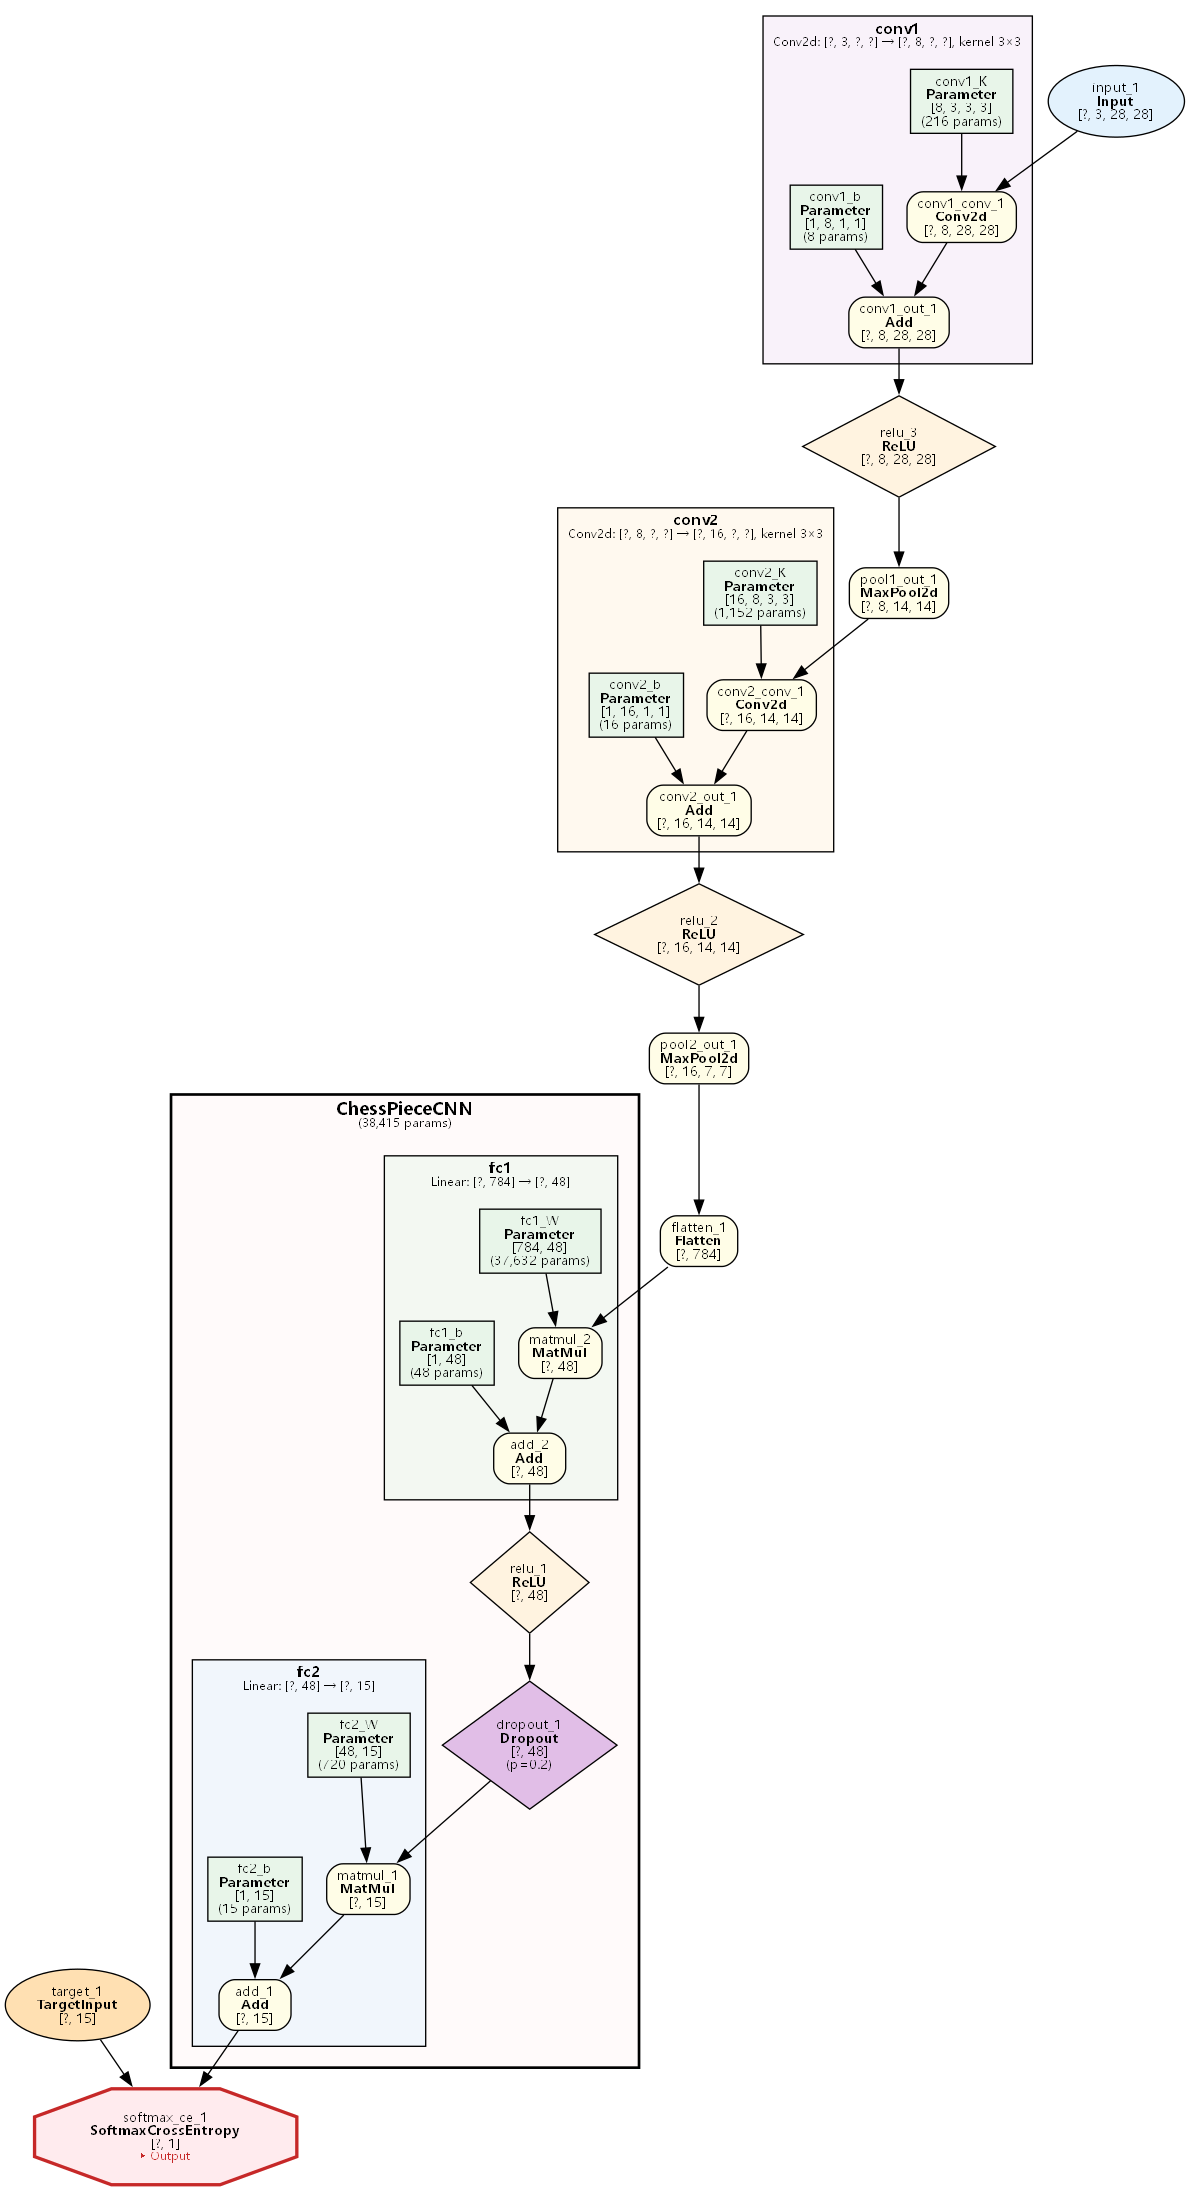
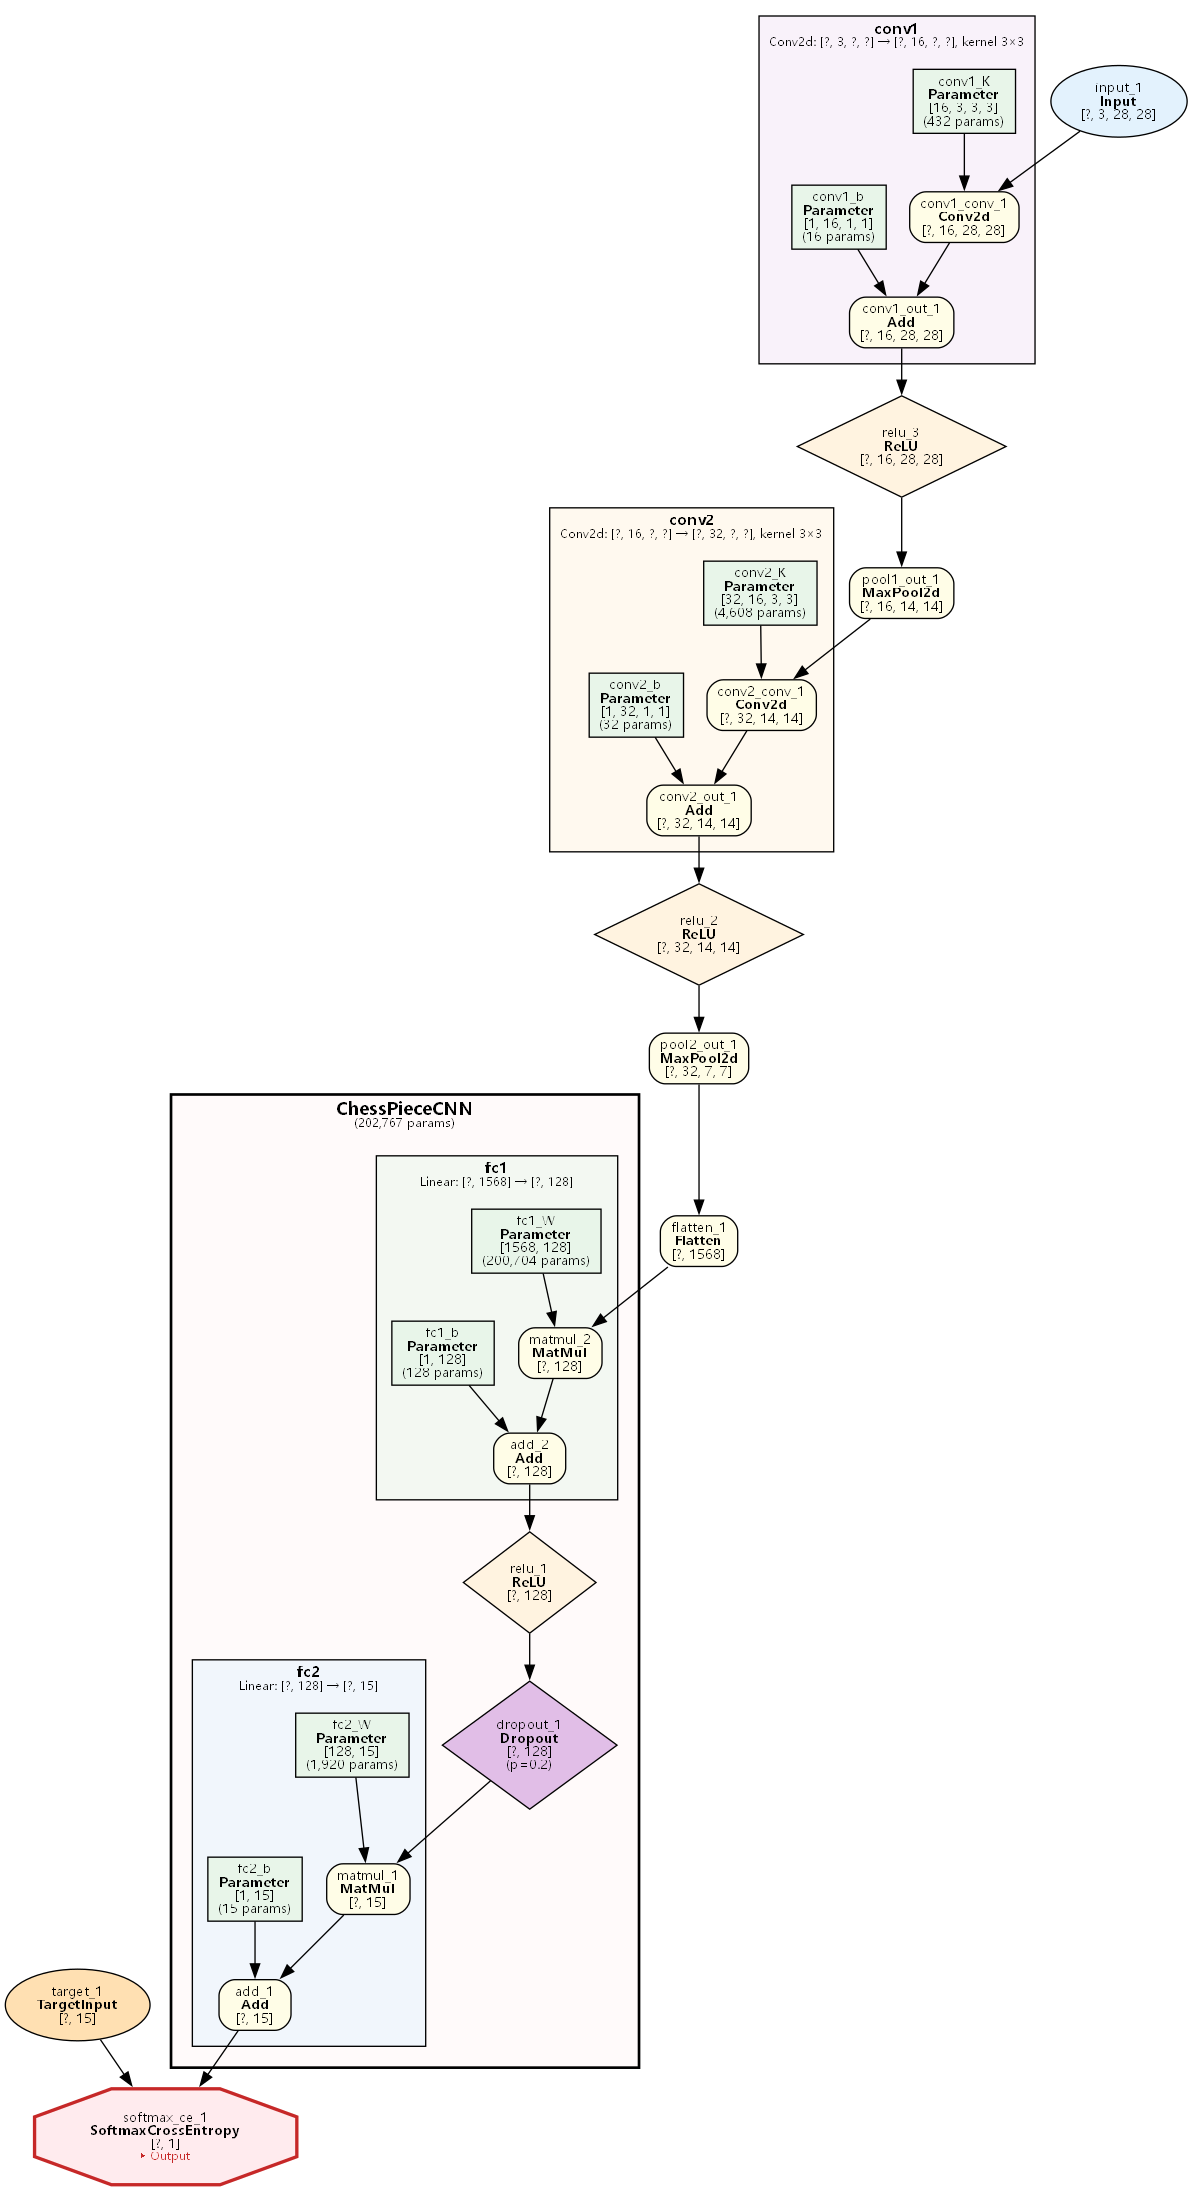
feat: update Chinese Chess model architecture and data augmentation
- Adjusted parameters in the ChessPieceCNN architecture, increasing the number of parameters in fully connected layers and convolutional layers.
- Simplified data augmentation in main.rs by removing aggressive transformations, retaining only ColorJitter for training.
- Enhanced the generate_chess_data.py script to include additional font styles for improved data generation.

diff --git a/examples/chinese_chess/main.rs b/examples/chinese_chess/main.rs
@@ -38,10 +38,7 @@ mod model;
 
 use data::{load_chess_data, CLASS_NAMES};
 use model::ChessPieceCNN;
-use only_torch::data::{
-    ColorJitter, Compose, DataLoader, RandomCrop, RandomErasing, RandomRotation, TensorDataset,
-    Transform,
-};
+use only_torch::data::{ColorJitter, DataLoader, TensorDataset, Transform};
 use only_torch::metrics::accuracy;
 use only_torch::nn::{Adam, Graph, GraphError, Module, Optimizer, VarLossOps};
 use only_torch::tensor::Tensor;
@@ -69,9 +66,9 @@ fn main() -> Result<(), GraphError> {
     // 2. 配置
     let batch_size = 256;
     let max_epochs = 100;
-    let learning_rate = 0.01;
+    let learning_rate = 0.001;
     let target_accuracy = 95.0;
-    let early_stop_patience = 5;
+    let early_stop_patience = 10;
 
     println!("\n[2/4] 配置：");
     println!("  - Batch: {batch_size}");
@@ -82,12 +79,8 @@ fn main() -> Result<(), GraphError> {
     println!("  - 目标准确率: {target_accuracy}%");
 
     // 3. 运行时数据增强（仅训练集）
-    let train_transform = Compose::new(vec![
-        Box::new(RandomCrop::new(28, 28).padding(3)),    // ±3px 裁切偏移
-        Box::new(RandomRotation::new(5.0)),              // ±5° 旋转
-        Box::new(ColorJitter::new(0.15, 0.15, 0.1)),    // 亮度/对比度/饱和度扰动
-        Box::new(RandomErasing::new(0.3)),               // 30% 概率随机遮挡
-    ]);
+    // 仅用温和的色彩扰动 — 28x28 小图上叠加裁切/旋转/遮挡太激进会阻碍学习
+    let train_transform = ColorJitter::new(0.15, 0.15, 0.1);
 
     // 为推理基准测试和每类准确率保留副本
     let test_x_for_eval = test_x.clone();
@@ -117,7 +110,7 @@ fn main() -> Result<(), GraphError> {
 
     println!("\n  网络: Conv(3→16) → Pool → Conv(16→32) → Pool → FC(1568→128) → FC(128→15)");
     println!("  参数量: {param_count}");
-    println!("  数据增强: RandomCrop(±3) → Rotation(±5°) → ColorJitter → RandomErasing(30%)");
+    println!("  数据增强: ColorJitter(b=0.15, c=0.15, s=0.1)");
 
     // 5. 训练
     println!("\n[3/4] 开始训练...\n");
@@ -132,7 +125,7 @@ fn main() -> Result<(), GraphError> {
 
         graph.train();
         for (batch_x, batch_y) in train_loader.iter() {
-            // 逐样本应用数据增强，再重组 batch
+            // 逐样本应用色彩扰动
             let augmented = apply_transform_batch(&batch_x, &train_transform);
 
             let output = model.forward(&augmented)?;

diff --git a/scripts/generate_chess_data.py b/scripts/generate_chess_data.py
@@ -92,6 +92,8 @@ STYLE_POOLS = {
             f"{FONT_DIR}/simkai.ttf",       # 楷体
             f"{FONT_DIR}/simsun.ttc",       # 宋体
             f"{FONT_DIR}/simhei.ttf",       # 黑体
+            f"{FONT_DIR}/simfang.ttf",      # 仿宋
+            f"{FONT_DIR}/msyh.ttc",         # 微软雅黑
         ],
         "board_bgs": [
             (200, 210, 190),    # 浅绿灰
@@ -115,6 +117,9 @@ STYLE_POOLS = {
     },
     "test": {
         "fonts": [
+            f"{FONT_DIR}/simkai.ttf",       # 楷体
+            f"{FONT_DIR}/simsun.ttc",       # 宋体
+            f"{FONT_DIR}/simhei.ttf",       # 黑体
             f"{FONT_DIR}/simfang.ttf",      # 仿宋
             f"{FONT_DIR}/msyh.ttc",         # 微软雅黑
         ],
@@ -760,8 +765,8 @@ def main():
     # 风格分离说明
     print(f"\n{'=' * 60}")
     print("风格分离说明：")
-    print("  训练集字体: 楷体, 宋体, 黑体")
-    print("  测试集字体: 仿宋, 微软雅黑")
+    print("  字体: 楷体, 宋体, 黑体, 仿宋, 微软雅黑 (共享)")
+    print("  泛化测试: 基于棋子配色方案 + 棋盘底色差异")
     print("  棋子风格: 3 种模式 (经典浅底 / 木纹自然色 / 饱和对比色)")
     print("  棋盘底色: 含暖木/绿/蓝绿/灰/白/复古 等色系")
     print("  网格线: 根据棋盘亮度自动选择深色/浅色线条")
